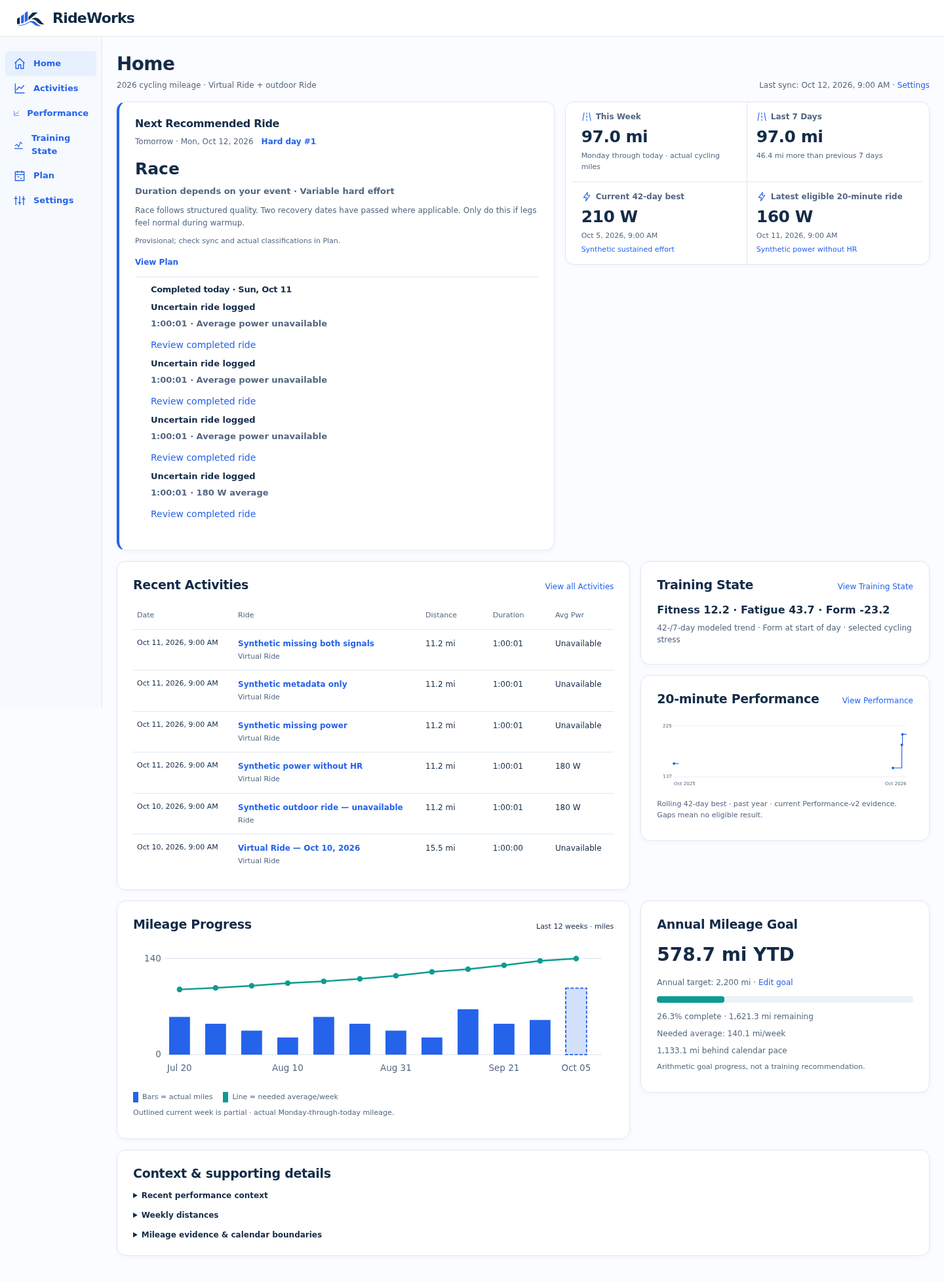
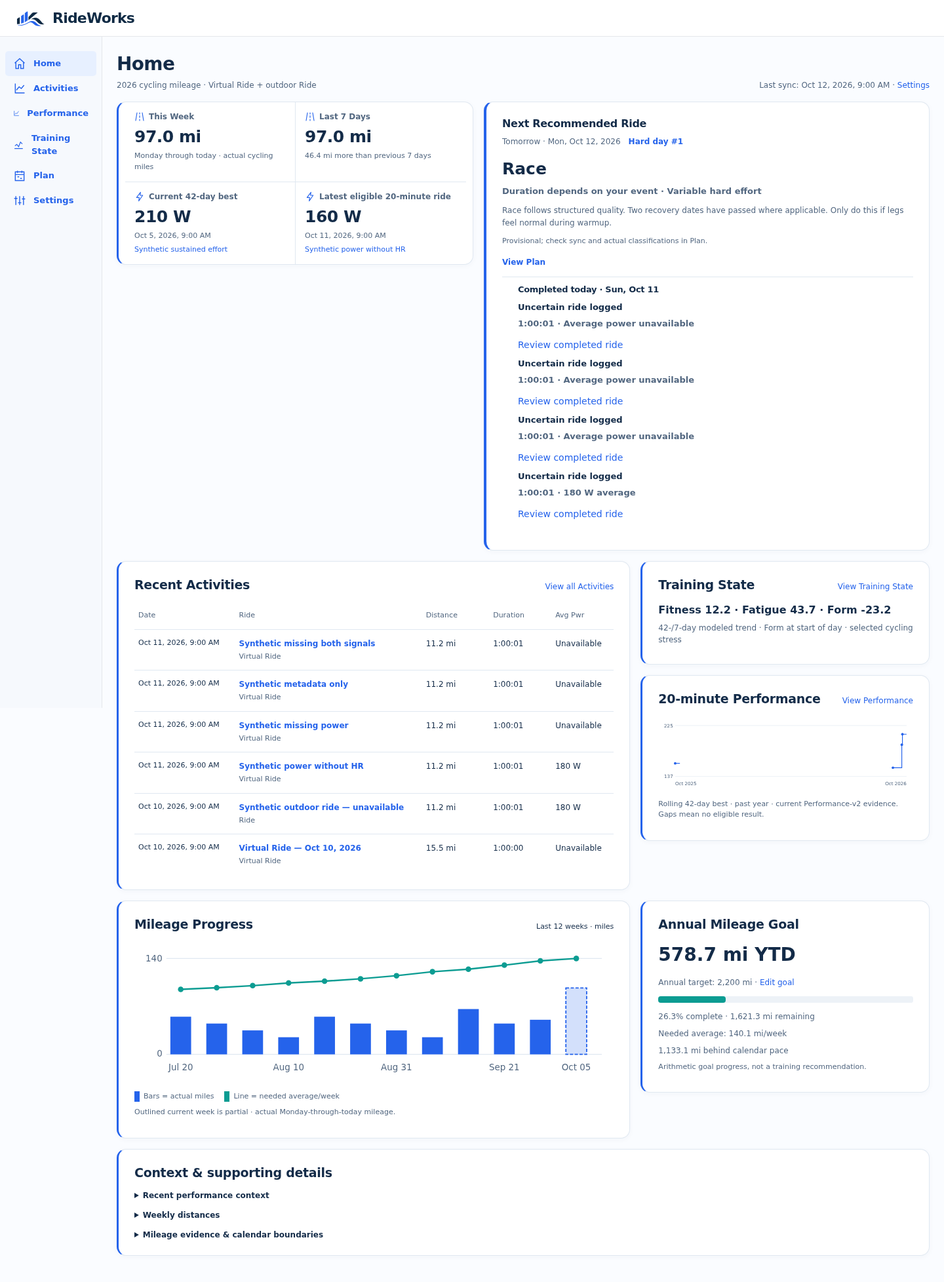
Refine Home card order and scoped blue accents

diff --git a/tools/verify_home_browser.js b/tools/verify_home_browser.js
@@ -27,9 +27,30 @@ async page => {
     const rec=await page.locator('.next-recommended').boundingBox(),quick=await page.locator('.home-summary').boundingBox();
     const prior=await old.locator('.next-recommended').boundingBox();
     const recent=await page.locator('.home-recent').boundingBox();
+    check(await page.locator('.home-lead').evaluate(n=>n.children[0].classList.contains('home-summary')&&n.children[1].classList.contains('next-recommended')),'facts first in actual DOM');
+    const leadLinks=await page.locator('.home-lead a').all();
+    if(leadLinks.length)await leadLinks[0].focus();
+    for(let i=0;i<leadLinks.length;i++) {
+      check(await leadLinks[i].evaluate(n=>n===document.activeElement),'lead keyboard follows DOM order');
+      if(i+1<leadLinks.length)await page.keyboard.press('Tab');
+    }
+    const accents=await page.locator('.home-summary, .home-lead > .next-recommended, .home-recent, .home-training, .home-performance, .home-mileage, .home-goal-progress, .home-supporting').evaluateAll(ns=>ns.map(n=>{
+      const s=getComputedStyle(n);return {next:n.classList.contains('next-recommended'),width:s.borderLeftWidth,color:s.borderLeftColor,style:s.borderLeftStyle,radius:s.borderTopLeftRadius};
+    }));
+    check(accents.length===8,'eight main cards accented');
+    for(const accent of accents) {
+      check(accent.width===(accent.next?'4px':'3px'),'single restrained main-card edge');
+      check(accent.color==='rgb(37, 99, 235)'&&accent.style==='solid'&&accent.radius==='14px','palette blue and rounded main-card edge');
+    }
+    check(await page.locator('.home-quick-fact, .home-supporting details, .next-recommended .plan-completed, .home-chart').evaluateAll(ns=>ns.every(n=>{
+      const s=getComputedStyle(n);return parseFloat(s.borderLeftWidth)===0||s.borderLeftColor!=='rgb(37, 99, 235)';
+    })),'no nested blue stripes');
     check(rec.y<prior.y,'next ride closer to top');
     check(rec.y+rec.height<=recent.y,'recommendation above recent rides');
-    if(width===1440)check(rec.y<220 && Math.abs(rec.y-quick.y)<1,'recommendation and quick facts above desktop fold');
+    if(width===1440) {
+      check(rec.y<220 && Math.abs(rec.y-quick.y)<1,'recommendation and quick facts above desktop fold');
+      check(quick.x+quick.width<rec.x&&rec.width>quick.width,'facts left and wider recommendation right');
+    } else check(quick.y+quick.height<rec.y,'stacked facts above recommendation');
     if(width<=620) {
       const boxes=await page.locator('.home-quick-fact').evaluateAll(ns=>ns.map(n=>{const r=n.getBoundingClientRect();return {x:r.x,y:r.y};}));
       check(boxes[0].y===boxes[1].y&&boxes[2].y===boxes[3].y&&boxes[2].y>boxes[0].y,'phone 2 by 2 facts');
@@ -37,7 +58,7 @@ async page => {
       check(await page.locator('.home-recent-row td:not(:nth-child(2))').evaluateAll(ns=>ns.every(n=>getComputedStyle(n,'::before').content.includes(n.dataset.label))),'visible mobile source-field labels');
     }
     const header=await page.locator('.home-heading').boundingBox();
-    geometry.push({width,headerHeight:header.height,recommendationTop:rec.y,priorRecommendationTop:prior.y,recentTop:recent.y});
+    geometry.push({width,headerHeight:header.height,factsTop:quick.y,factsWidth:quick.width,recommendationTop:rec.y,recommendationWidth:rec.width,priorRecommendationTop:prior.y,recentTop:recent.y});
     check(await page.locator('.home-recent-row').count()===data.recent.length,'all recent rows retained');
     for(const row of data.recent) {
       const el=page.locator('.home-recent-row[data-activity-id="'+row.activity_id+'"]');

diff --git a/tools/verify_home_refinements_browser.js b/tools/verify_home_refinements_browser.js
@@ -1,0 +1,37 @@
+/* Run through Playwright CLI with source-neutral CASE_INPUT scenario URLs. */
+async page => {
+  const cases=CASE_INPUT;let checks=0;
+  const check=(v,m)=>{checks++;if(!v)throw Error(m);};
+  const lum=color=>color.match(/\d+/g).slice(0,3).map(v=>+v/255).map(v=>v<=.04045?v/12.92:((v+.055)/1.055)**2.4).reduce((s,v,i)=>s+v*[.2126,.7152,.0722][i],0);
+  const contrast=(a,b)=>(Math.max(lum(a),lum(b))+.05)/(Math.min(lum(a),lum(b))+.05);
+  for(const scenario of cases)for(const width of [1440,1024,768,390,320]) {
+    await page.setViewportSize({width,height:1080});
+    const response=await page.goto(scenario.base+'/?home_tz=America%2FLos_Angeles');await page.waitForLoadState('networkidle');
+    check(response.status()===200,'scenario Home available');
+    check(await page.evaluate(()=>document.documentElement.scrollWidth<=innerWidth+1),'scenario no overflow');
+    check(await page.locator('.home-quick-fact').evaluateAll(ns=>ns.every(n=>n.scrollWidth<=n.clientWidth+1)),'fact names/numbers contained');
+    const summary=await page.locator('.home-summary').boundingBox(),next=await page.locator('.next-recommended').boundingBox();
+    check(width===1440?summary.x+summary.width<next.x&&Math.abs(summary.y-next.y)<1:summary.y+summary.height<next.y,'scenario facts precede recommendation');
+    check(await page.locator('.home-chart').evaluateAll(ns=>ns.every(n=>{
+      const r=n.getBoundingClientRect(),p=n.closest('.panel').getBoundingClientRect();return r.left>=p.left&&r.right<=p.right+1&&r.top>=p.top&&r.bottom<=p.bottom+1;
+    })),'charts contained in their cards');
+    check(await page.locator('.home-chart text').evaluateAll(ns=>ns.every(n=>{
+      const r=n.getBoundingClientRect(),p=n.closest('.panel').getBoundingClientRect();return r.left>=p.left&&r.right<=p.right+1;
+    })),'chart labels remain inside cards');
+    for(const colors of await page.locator('.home-quick-fact h2, .home-quick-fact strong, .home-redesign a').evaluateAll(ns=>ns.filter(n=>n.closest('.panel')).map(n=>({text:getComputedStyle(n).color,background:getComputedStyle(n.closest('.panel')).backgroundColor})))) {
+      check(contrast(colors.text,colors.background)>=4.5,'normal text contrast');
+    }
+    const edge=await page.locator('.home-summary').evaluate(n=>({color:getComputedStyle(n).borderLeftColor,background:getComputedStyle(n).backgroundColor}));
+    check(contrast(edge.color,edge.background)>=3,'blue edge contrast');
+    if(scenario.longFacts) {
+      check(await page.locator('#home-this-week strong').textContent().then(t=>t.includes('12,')),'large generated mileage displayed');
+      check(await page.locator('#home-latest a').textContent().then(t=>t.length>300),'long generated contributor displayed');
+    }
+    if(scenario.name==='empty') {
+      check(await page.locator('.metric-unavailable').count()===2,'honest missing power facts');
+      check(await page.locator('#home-this-week strong, #home-last7 strong').allTextContents().then(v=>v.every(t=>t==='0.0 mi')),'empty history keeps supported zero mileage');
+    }
+    await page.screenshot({path:'output/playwright/home-owner-'+scenario.name+'-'+width+'.png',fullPage:true});
+  }
+  return {checks,scenarios:cases.map(s=>s.name),widths:[1440,1024,768,390,320],contrast:true,overflow:false};
+}

diff --git a/rideworks/static/style.css b/rideworks/static/style.css
@@ -642,10 +642,12 @@ pre { overflow-x: auto; font-size: 13px; background: var(--background); padding:
 .home-redesign h1 { font-size: 28px; }
 .home-redesign h2 { font-size: 19px; letter-spacing: -.3px; }
 .home-redesign .panel { padding: 22px 24px; border-radius: 14px; min-width: 0; box-shadow: 0 2px 8px rgb(22 45 78 / 3.5%); }
+.home-redesign :is(.home-summary, .home-recent, .home-training, .home-performance, .home-mileage, .home-goal-progress, .home-supporting) { border-left: 3px solid var(--blue); }
+.home-redesign .home-lead > .next-recommended { border-left: 4px solid var(--blue); }
 .home-redesign .home-heading { align-items: end; margin-bottom: 16px; gap: 8px 20px; }
 .home-redesign .home-heading p { font-size: 12px; }
 .home-redesign .home-sync { max-width: 50%; text-align: right; }
-.home-redesign .home-lead { display: grid; grid-template-columns: minmax(0, 1.2fr) minmax(0, 1fr); gap: 16px; align-items: start; margin-bottom: 16px; }
+.home-redesign .home-lead { display: grid; grid-template-columns: minmax(0, 1fr) minmax(0, 1.25fr); gap: 16px; align-items: start; margin-bottom: 16px; }
 .home-redesign .next-recommended { margin: 0; }
 .home-redesign .next-recommended h2 { font-size: 16px; }
 .home-redesign .recommended-type { font-size: 25px; margin: 8px 0 4px; }

diff --git a/rideworks/home.py b/rideworks/home.py
@@ -164,7 +164,7 @@ def home_page(store, query=''):
     compact = {k:v for k,v in data.items() if k!='recent'}
     compact['recent'] = [{k:r[k] for k in ('activity_id','title','activity_type','start_time','absolute_time','date_text','distance','duration','distance_source','duration_source','average_power','average_power_source')} for r in data['recent']]
     return shell('Home',f'''<div class="home-redesign"><header class="home-heading" data-calendar-timezone="home_tz"><div><h1>Home</h1><p>{data['year']} cycling mileage · Virtual Ride + outdoor Ride</p></div>{sync}</header>
-<div class="home-lead">{advisor}<section class="panel home-summary" id="home-recent-mileage" aria-label="Recent mileage and eligible power"><div class="home-quick-grid">{recent_mileage}{card('current','Current 42-day best',current,current_note,'power')}{card('latest','Latest eligible 20-minute ride',latest,latest_note,'power')}</div></section></div>
+<div class="home-lead"><section class="panel home-summary" id="home-recent-mileage" aria-label="Recent mileage and eligible power"><div class="home-quick-grid">{recent_mileage}{card('current','Current 42-day best',current,current_note,'power')}{card('latest','Latest eligible 20-minute ride',latest,latest_note,'power')}</div></section>{advisor}</div>
 <div class="home-layout"><section class="panel home-recent"><div class="home-panel-heading"><h2>Recent Activities</h2><a href="/activities">View all Activities</a></div>{recent}</section><div class="home-companions">{training}<section class="panel home-performance"><div class="home-panel-heading"><h2>20-minute Performance</h2><a href="/performance">View Performance</a></div>{power_chart(performance,zone)}<p>Rolling 42-day best · past year · current Performance-v2 evidence. Gaps mean no eligible result.</p></section></div></div>
 <div class="home-progress-layout"><section class="panel home-mileage"><div class="home-panel-heading"><h2>Mileage Progress</h2><span>Last 12 weeks · miles</span></div>{weekly_chart(data['weekly_goal'])}<p class="home-mileage-legend"><span class="legend-actual">Bars = actual miles</span><span class="legend-needed">Line = needed average/week</span></p><p>Outlined current week is partial · actual Monday-through-today mileage.</p></section><section class="panel home-goal-progress"><h2>Annual Mileage Goal</h2><strong>{miles(ytd['miles'])} YTD</strong>{progress}<p>Arithmetic goal progress, not a training recommendation.</p></section></div>
 <section class="panel home-supporting" aria-labelledby="home-supporting-title"><h2 id="home-supporting-title">Context &amp; supporting details</h2>{insight_panel}<details class="home-weekly-details"><summary>Weekly distances</summary><p>Monday–Sunday weeks; outlined current bar is actual Monday-through-today mileage. Needed pace uses remaining mileage and calendar days after each Sunday; current pace uses today. Required points apply to the goal year.</p><div class="home-evidence-table"><table><thead><tr><th>Week of</th><th>Actual mi</th><th>Needed mi/week</th><th>File</th><th>API</th><th>Missing</th></tr></thead><tbody>{week_rows}</tbody></table></div></details>

diff --git a/tools/preview_home.py b/tools/preview_home.py
@@ -2,6 +2,7 @@
 """Extend the existing source-neutral review fixture for Home visual checks."""
 import argparse
 from datetime import datetime, timedelta, timezone
+import json
 from pathlib import Path
 import subprocess
 import sys
@@ -13,11 +14,13 @@ from rideworks.performance import rebuild_performance
 from rideworks.power_curve import rebuild_curves
 from rideworks.store import Store
 from rideworks.strava_api import apply_observations, normalize
+from rideworks.strava_streams import persist
 
 
 def main():
     p=argparse.ArgumentParser(description=__doc__)
     p.add_argument('--data-dir',type=Path,required=True)
+    p.add_argument('--long-facts',action='store_true',help='Stress wrapping with generated long contributor names and a large mileage value.')
     a=p.parse_args()
     if (a.data_dir/'rideworks.sqlite3').exists():p.error('Use a new empty preview store.')
     subprocess.run([sys.executable,str(ROOT/'tools/preview_activity_review.py'),'--data-dir',str(a.data_dir)],check=True)
@@ -27,6 +30,20 @@ def main():
             start_date=(now-timedelta(days=7*i+4)).isoformat(),distance=(25+i%4*10)*1609.344,
             elapsed_time=3600,average_watts=120)) for i in range(1,12)]
         apply_observations(store,rows,999,int(now.timestamp()))
+        if a.long_facts:
+            long_rows=[]
+            streams=[]
+            for identity in (3,9):
+                evidence=store.connection.execute('SELECT s.evidence_json FROM strava_api_activities a JOIN strava_api_sources s ON s.source_id=a.current_source_id WHERE a.external_id=?',(str(identity),)).fetchone()[0]
+                values=json.loads(evidence)
+                values['name']='Synthetic long contributor — '+('EnduranceAfterRecoveryWithoutAbbreviations'*4)+' · '+('source-supported words '*8)
+                if identity==9:values['distance']=12345.6*1609.344
+                long_rows.append(normalize(values))
+                retained=store.connection.execute('SELECT s.evidence_json FROM strava_stream_current c JOIN strava_stream_sources s ON s.source_id=c.source_id WHERE c.external_id=?',(str(identity),)).fetchone()[0]
+                streams.append((identity,json.loads(retained)))
+            apply_observations(store,long_rows,999,int(now.timestamp()))
+            # Bind the generated streams to their new summary observations.
+            for identity,payload in streams:persist(store,identity,payload)
         set_annual_goal(store,now.year,'2200')
         rebuild_performance(store);rebuild_curves(store)
     print('Synthetic Home preview created; no personal source data used.')

diff --git a/tests/test_rideworks_dashboard.py b/tests/test_rideworks_dashboard.py
@@ -238,7 +238,7 @@ class DashboardTests(TestCase):
             start_date='2026-10-10T12:00:00Z',elapsed_time=1200,distance=1609.344,average_watts=100))],42,1790000000)
         html=self.app.get('/?home_tz=UTC')[2].decode()
         self.assertIn('class="home-redesign"',html)
-        self.assertLess(html.index('id="next-recommended-heading"'),html.index('id="home-recent-mileage"'))
+        self.assertLess(html.index('id="home-recent-mileage"'),html.index('id="next-recommended-heading"'))
         self.assertLess(html.index('Recent Activities</h2>'),html.index('Training State</h2>'))
         self.assertIn('Synthetic &lt;ride&gt;',html)
         for label in ('Date','Ride','Distance','Duration','Avg Pwr'):

diff --git a/reports/HOME-UI-01/implementation.md b/reports/HOME-UI-01/implementation.md
@@ -8,7 +8,7 @@ remains required. Baseline: accepted `main` at `516cbd7`.
 
 - A compact Home title/subtitle and source-accurate last successful sync link.
   Missing sync is explicit. The application shell and navigation are unchanged.
-- Existing **Next Recommended Ride** leads the page beside four compact facts:
+- Four compact facts lead the page, with **Next Recommended Ride** beside them:
   This Week, Last 7 Days, current 42-day best, and latest eligible 20-minute ride.
   These preserve their distinct periods, supplied values and contributor links.
 - Recent Activities leads the body, with real dates, titles/types, distance,
@@ -27,28 +27,40 @@ remains required. Baseline: accepted `main` at `516cbd7`.
   restrained 14px panels and 18–24px padding. The header has no banner/gradient.
   All other page styles and global navigation retain their accepted behavior.
 
+The Owner's latest running-page corrections are implemented on the same PR:
+facts first/left in actual DOM and keyboard order, recommendation second/right
+with a 1:1.25 width ratio. Both align at the top without stretching the shorter
+card. The eight main cards have thin #2563eb left edges: 3px except the next ride's
+existing 4px. Individual facts, nested completed context, charts and disclosures
+have no additional blue stripes. The restrained treatment is retained for Owner
+review. The explicit no-other-pages decision is the final scope boundary;
+there is no planned visual rollout or Phase 6 work.
+
 ## Reference and deliberate adaptations
 
 The Analyst HTML proposal and historical Dashboard PNG were inspected in Chromium.
 Real before/after captures at **1440, 1024, 768, 390 and 320 CSS px** were compared;
 private captures, titles, routes and store snapshots remain ignored/local.
 
-The proposed hierarchy is retained: recommendation/facts, recent rides and
+The proposed hierarchy is retained: facts/recommendation, recent rides and
 companions, mileage/goal, then supporting evidence. The existing global shell
 stays intact, including its mobile navigation. No invented FTP, fitness points,
 race classification, recommendation, chart traces or example values were copied.
 
 The four facts form a 2×2 matrix on desktop/phone; intermediate widths use a
-compact four-column strip below the recommendation. Missing/long values wrap.
+compact four-column strip above the recommendation. Missing/long values wrap.
 Advice has no arbitrary minimum height; supported completed-today context remains
 inside the shared recommendation, so multiple actual rides naturally need more
 space. Training State retains its real text values rather than the proposed fake
 mini chart. The accepted SVG chart generators are untouched; mobile text size is
 increased through scoped CSS while SVG values, paths, points and links stay exact.
 
-On the captured real desktop Home, recommendation top moved **338 → 155px**,
-with Recent Activities starting at **449px**. At 320px it moved **1709 → 423px**;
-the unchanged global mobile shell accounts for the preceding navigation space.
+On the captured real desktop Home, facts and recommendation start at **155px**,
+with widths **544 / 680px** and Recent Activities starting at **449px**. At 320px
+the facts start at **423px**, followed by the recommendation at **771px**. The
+requested stacked order moves advice below the facts; it remains much higher
+than accepted main's **1709px** placement. The unchanged global mobile shell
+accounts for the preceding navigation space.
 This is measured placement, not a claim that every source state fits one screen.
 
 ## Interaction correction
@@ -85,10 +97,20 @@ results remain protected. The separate unchanged-input check compares **all**
 tables, including those caches. Its reported schema now reflects the actual
 fixture instead of the older hardcoded schema 7.
 
-**13,476 counted Chromium checks** pass: 825 real / 748 synthetic Home,
+**14,256 counted Chromium checks** pass after the Owner corrections:
+940 real / 883 synthetic Home,
 9,962 Activity Review, 1,331 existing Power Curve, 510 Training State, 14 accepted-page,
 28 before/completed/empty recommendation, 10 focus-scroll/resize/Escape, and 48
-unchanged-page computed-style checks across eight routes and three widths.
+unchanged-page computed-style checks across eight routes and three widths,
+plus 530 refinement checks over four scenarios at all five widths. Those cases
+cover before a ride, one completed ride, empty history and generated long
+contributor names/large mileage. Real and synthetic Home also cover short advice,
+long explanations and multiple completed rides. DOM/focus order, all eight
+3px/4px rounded borders and no nested blue stripes pass. Normal fact/link text
+meets 4.5:1 contrast and the blue accent exceeds 3:1 on the actual white cards.
+An initial overlapping-database comparison received a server error; repeating
+without competing requests passes all 48 other-page style/geometry comparisons.
+The final unchanged-input preservation check also passes after browser regressions.
 The standalone Dashboard acceptance also passes its independent checks, calendar
 cases, fake sync/failure/recovery, goal settings and 48 tooltip lifecycle cases;
 these are reported separately rather than added to the counted total.
@@ -106,6 +128,8 @@ Snapshots contain private evidence and must stay in ignored local storage.
 ```bash
 .venv/bin/python -m unittest discover -s tests -q
 .venv/bin/python tools/preview_home.py --data-dir /path/to/new-synthetic-preview
+.venv/bin/python tools/preview_home.py --long-facts \
+  --data-dir /path/to/new-synthetic-wrapping-preview
 .venv/bin/python tools/verify_home_preservation.py \
   --data-dir /path/to/disposable-store --code-root /path/to/accepted-main \
   --snapshot /path/to/ignored-before.json
@@ -125,6 +149,10 @@ The configuration is read locally and never copied into reports or Git.
 Existing Activity Review, Power Curve and Training State browser tools were rerun
 against the disposable current server. Scenario previews reuse
 `tools/preview_planning_v2.py` with and without `--before-ride`, plus an empty store.
+Run `tools/verify_home_refinements_browser.js` with `CASE_INPUT` replaced locally
+by an array of `{name, base, longFacts}` cases: `before`, `completed`, `empty` and
+`long-facts` (only the last sets `longFacts: true`). All fixtures are generated,
+disposable source evidence, including the intentionally exaggerated wrapping case.
 
 ## Synthetic screenshot comparison
 
@@ -139,11 +167,20 @@ real single-ride case. It is evidence of responsive behavior, not fabricated adv
 | Desktop | [Before](synthetic-before-desktop.png) | [After](synthetic-after-desktop.png) |
 | 320px phone | [Before](synthetic-before-320.png) | [After](synthetic-after-320.png) |
 
+The Owner-refinement comparison uses the previous Home implementation, rather
+than accepted main, as its before state. All five widths were captured and
+inspected locally; representative source-neutral captures are retained here.
+
+| View | Before Owner corrections | Refined Home |
+| --- | --- | --- |
+| Desktop | [Before](synthetic-owner-before-desktop.png) | [After](synthetic-after-desktop.png) |
+| 320px phone | [Before](synthetic-owner-before-320.png) | [After](synthetic-after-320.png) |
+
 ## Review handoff
 
 Running real-source review: `http://127.0.0.1:8801/?home_tz=America%2FLos_Angeles`.
 Synthetic review: `http://127.0.0.1:8803/?home_tz=America%2FLos_Angeles`.
 Branch `task/home-ui-01-dashboard`; [draft PR #32](https://github.com/k14krug/rideworks/pull/32),
-implementation commit `defa46b`; current handoff is recorded in `STATUS.md`. Stop at **HARD — Analyst Gate 1** for code, source parity, interaction
+current head and handoff are recorded on the PR and in `STATUS.md`. Stop again at **HARD — Analyst Gate 1** for code, source parity, interaction
 and visual review. Owner Gate 2 must accept the running dashboard before merge.
 Task remains `in_progress`; no other-page redesign or Phase 6 work.

diff --git a/STATUS.md b/STATUS.md
@@ -1,11 +1,11 @@
 # STATUS.md
 
 **Product:** RideWorks.
-**Current task:** HOME-UI-01 — Home dashboard visual refinement; `/AUTOTASK HOME-UI-01` on 2026-10-11.
-**State:** **in_progress — Owner Home visual refinements pending** at HARD — Analyst Gate 1: top two cards swapped, thin blue left accents on main Home cards, no style rollout to other pages. Existing pre-refinement tests passed but updated UI must be reverified and accepted.
-**Branch / PR:** `task/home-ui-01-dashboard`; [draft PR #32](https://github.com/k14krug/rideworks/pull/32); [issue #31](https://github.com/k14krug/rideworks/issues/31). Implementation commit `defa46b`.
-**Implemented:** Compact Home header/sync status; prominent shared next ride beside four quick facts; labelled responsive recent rows; companion real Training State/Performance; mileage/annual goal and complete supporting disclosures. CSS scoped to Home. Mileage keyboard tooltip remains visible after focus-driven scroll/resize; Escape keeps it dismissed.
-**Verification:** 446 Python tests; 13,476 counted Chromium checks plus standalone synthetic Dashboard sync/goal/oracle/failure-recovery acceptance. Real/synthetic Home at 1440/1024/768/390/320px, keyboard and touch; before/completed/empty Plan parity; Activity Review/PC-01/Training State unchanged. Eight unrelated routes' computed styles equal accepted main. Six fixed-clock/timezone cases preserve all dashboard data/chart SVGs, accepted models, all 26 tables / 1,422 originals and approved FTP/Elevate. [Report](reports/HOME-UI-01/implementation.md).
+**Current task:** HOME-UI-01 — Home dashboard visual refinement; `/TASK HOME-UI-01` on 2026-10-11.
+**State:** **ready_for_review — Owner refinements implemented and reverified**; stopped again at HARD — Analyst Gate 1. Owner Gate 2 for the refined running Home remains open. Task stays `in_progress`; no merge.
+**Branch / PR:** `task/home-ui-01-dashboard`; [draft PR #32](https://github.com/k14krug/rideworks/pull/32); [issue #31](https://github.com/k14krug/rideworks/issues/31). Refinement head is recorded on the PR.
+**Implemented:** Four quick facts first/left in DOM and keyboard order; shared Next Recommended Ride second/right with more width, stacked below the facts on narrow screens. Eight main Home cards have 3px blue edges, except the next ride's 4px edge; no nested stripes. Compact header, responsive recent rows, real Training State/Performance, mileage/goal and complete supporting disclosures remain. CSS stays scoped to Home; all other pages retain their approved styles.
+**Verification:** 446 Python tests; 14,256 counted Chromium checks plus standalone synthetic Dashboard sync/goal/oracle/failure-recovery acceptance. Real/synthetic Home at 1440/1024/768/390/320px, keyboard/touch, before/completed/empty and long-name/number cases, contrast and borders. Activity Review/PC-01/Training State regressions pass. Eight unrelated routes' computed styles/geometry equal accepted main. Six fixed-clock/timezone cases preserve dashboard data/chart SVGs, accepted models, all 26 tables / 1,422 originals and approved FTP/Elevate. [Report](reports/HOME-UI-01/implementation.md).
 **Running review:** `http://127.0.0.1:8801/?home_tz=America%2FLos_Angeles` (disposable retained-source copy); synthetic preview at `http://127.0.0.1:8803/`. Original accepted store untouched; private captures/routes stay ignored.
-**Next action:** Dex continues existing draft PR #32 using [JIT §7](docs/tasks/HOME-UI-01.md) and updated [Home visual reference](docs/mockups/home-dashboard-ui-concept.html), implementing **quick facts first/left, Next Ride second/right**, restrained 3px blue left accent on major cards (Next Ride 4px) and **no changes to other pages**. Rerun screenshots/tests, return at Analyst Gate 1; Owner Gate 2 then reviews the refined running dashboard. No merge before acceptance.
+**Next action:** Analyst Gate 1 reviews the refined code, screenshots, source parity and interactions against [JIT §7](docs/tasks/HOME-UI-01.md); Owner Gate 2 then accepts the refined running dashboard. No merge before acceptance, no style rollout to other pages.
 **Accepted prior work:** AR-UI-01 and Phases 1–5 / PC-01 are done. Phase 6 remains deferred.

diff --git a/TASKS.md b/TASKS.md
@@ -502,7 +502,7 @@ Phase 4 is now explicitly Owner-authorized. Phase 5 must not begin automatically
 
 ### HOME-UI-01 — Home dashboard visual redesign
 
-**Status:** **in_progress — Owner refinements requested, 2026-10-11; HARD — Analyst Gate 1 remains open**. On [draft PR #32](https://github.com/k14krug/rideworks/pull/32), quick facts must move left/first, Next Recommended Ride right/second, and main Home cards trial a restrained blue left edge. Only earlier pre-refinement tests passed; no final Owner Gate 2 acceptance or merge. [Issue #31](https://github.com/k14krug/rideworks/issues/31).
+**Status:** **in_progress — Owner refinements implemented and reverified, 2026-10-11; ready for HARD — Analyst Gate 1**. On [draft PR #32](https://github.com/k14krug/rideworks/pull/32), quick facts are left/first in DOM and keyboard order, Next Recommended Ride right/second, and the eight main Home cards have restrained 3px blue edges (Next Ride 4px). Desktop/mobile screenshots, 446 Python tests, Chromium regressions, unchanged other-page styles and source preservation pass. Owner Gate 2 remains open; no merge. [Issue #31](https://github.com/k14krug/rideworks/issues/31).
 
 **Scope:** Reduce Home header/metric whitespace; prioritize **Next Recommended Ride**, retain all four quick metrics, Recent Activities, Training State, 20-minute Performance, real interactive mileage chart and YTD goal, context/evidence details. Use the approved Activity Review design language but keep exact current Plan, Performance, Training State, mileage source and period values unchanged. The proposed Home HTML has **synthetic** numbers and graph traces and is not data.
 
